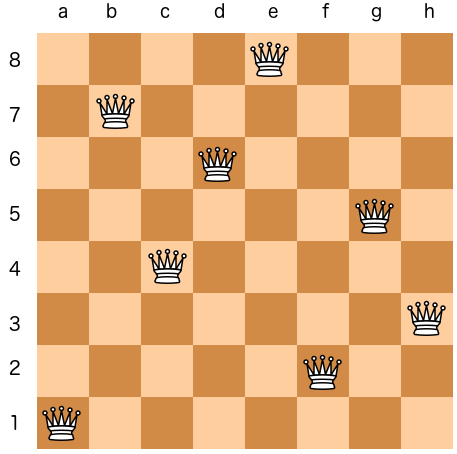
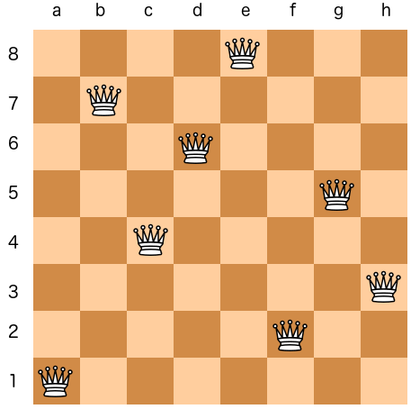
Resize image

diff --git a/README.md b/README.md
@@ -8,7 +8,7 @@ The objective of the program is to find solution to the N Queens problem.
 Place N queens on N by N board without them having a conflict with one another.
 
 ### Goal state example
-![Goal](https://github.com/luntropy/n-queens/blob/main/images/goal-state.png =400x)
+![Goal](https://github.com/luntropy/n-queens/blob/main/images/goal-state.png)
 
 ## About the program
 The program uses the algorithm **MinConflicts** to find the correct solution. The goal is to find a solution of the problem with 10,000 queens under 1 second.
